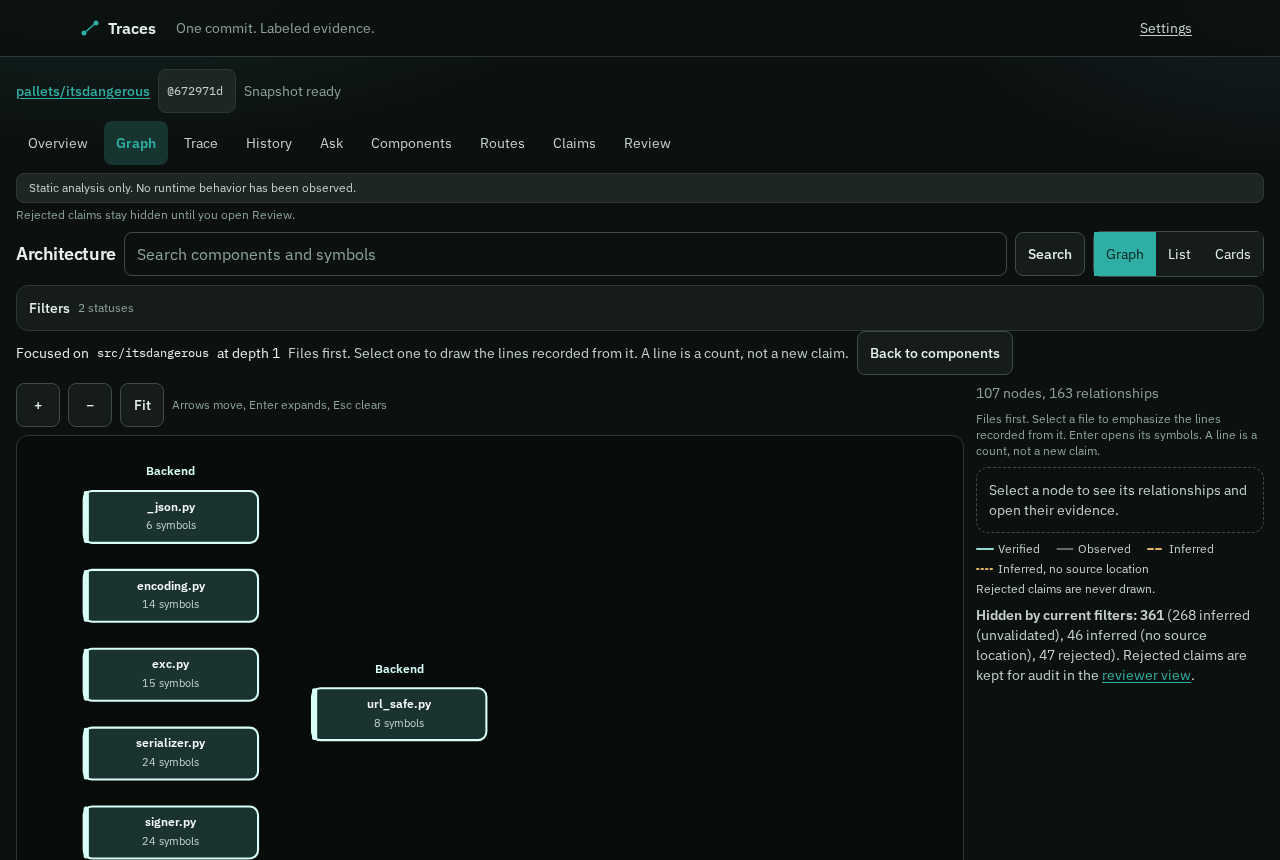
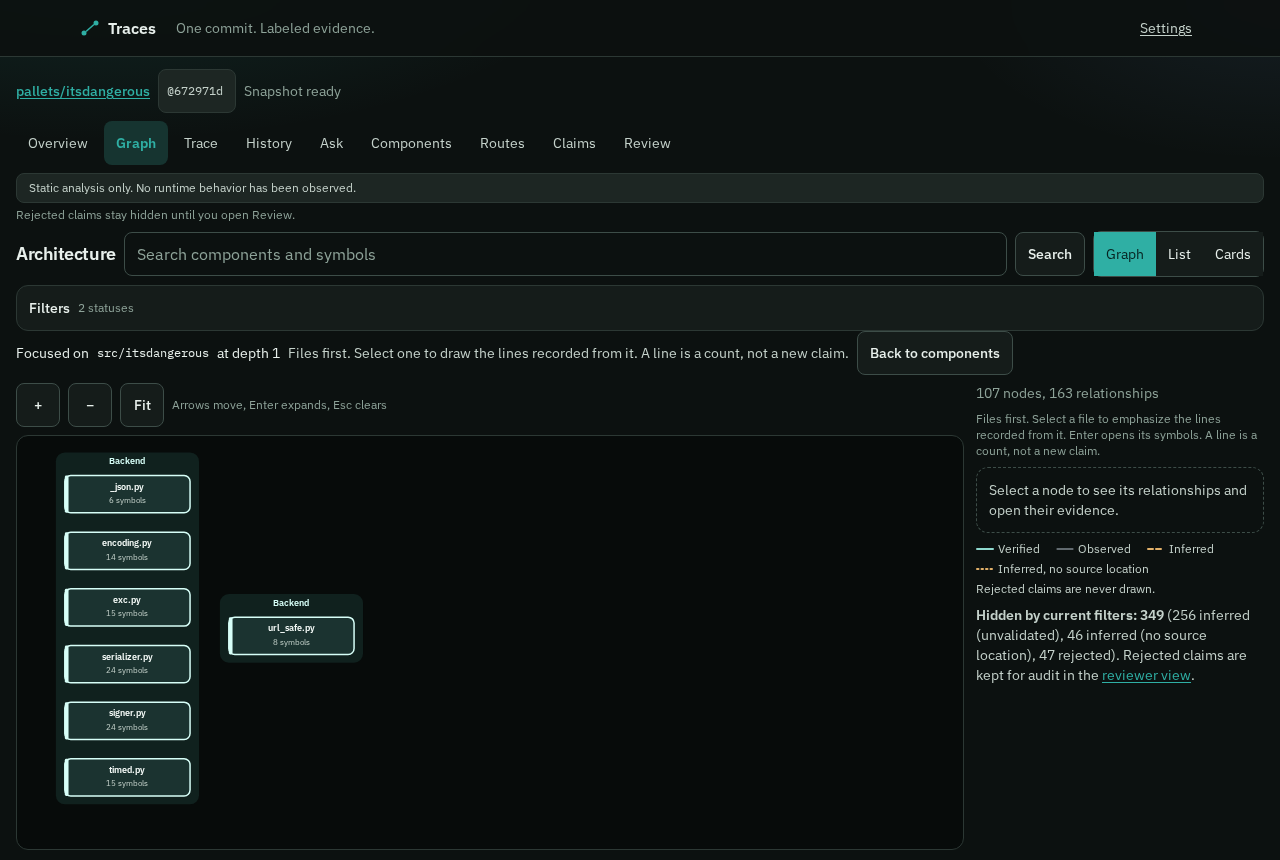
Show neighboring links first and keep the map on the first screen.
Longer recorded links stay off other columns until a component is selected.
The strongest counts sit beside the map. The diagram scales into the space
that is actually visible.

Changed region(s): [[0.0312, 0.514, 0.4062, 1.0]]

diff --git a/web/src/features/graph/GraphCanvas.tsx b/web/src/features/graph/GraphCanvas.tsx
@@ -150,13 +150,32 @@ export function GraphCanvas({ elements, layout, selected, onSelect, onExpand, on
     return ids;
   }, [edges, selected]);
 
+  const [linkScope, setLinkScope] = useState<"near" | "all">("near");
+  const multiLayer = useMemo(() => new Set(nodes.map((n) => n.data.layer).filter(Boolean)).size > 1, [nodes]);
+  const neighboring = useCallback(
+    (e: { data: ElementData }) => {
+      const a = pos[e.data.source!];
+      const b = pos[e.data.target!];
+      if (!a || !b) return false;
+      return Math.abs(a.x - b.x) <= 280;
+    },
+    [pos],
+  );
+  const holdLong = layout === "map" && multiLayer && linkScope === "near";
+  const visibleEdges = useMemo(() => {
+    if (!holdLong) return edges;
+    return edges.filter((e) => neighboring(e) || (!!selected && (e.data.source === selected || e.data.target === selected)));
+  }, [edges, holdLong, neighboring, selected]);
+  const longer = useMemo(() => (layout === "map" && multiLayer ? edges.filter((e) => !neighboring(e)).length : 0), [edges, layout, multiLayer, neighboring]);
+
   const userScaled = useRef(false);
   const fit = useCallback(() => {
     const el = stageRef.current;
     if (!el || el.clientWidth < 40) return 1;
-    const availH = el.clientHeight > 80 ? el.clientHeight - 8 : 520;
-    const z = Math.min(1.15, (el.clientWidth - 8) / frame.w, availH / frame.h);
-    return Math.max(0.22, z);
+    const top = el.getBoundingClientRect().top;
+    const visible = Math.max(240, window.innerHeight - Math.max(top, 0) - 12);
+    const z = Math.min(1.15, (el.clientWidth - 8) / frame.w, visible / frame.h);
+    return Math.max(0.42, z);
   }, [frame.w, frame.h]);
 
   useEffect(() => {
@@ -236,7 +255,22 @@ export function GraphCanvas({ elements, layout, selected, onSelect, onExpand, on
           Fit
         </Button>
         <span className="text-xs text-muted">Arrows move, Enter expands, Esc clears</span>
+        {longer > 0 ? (
+          <div role="group" aria-label="Which recorded lines to draw" className="flex gap-1">
+            <button type="button" aria-pressed={linkScope === "near"} onClick={() => setLinkScope("near")} className={`tap rounded-md border px-3 text-sm ${linkScope === "near" ? "border-accent bg-accent text-accent-ink" : "border-line-strong bg-surface"}`}>
+              Neighboring columns
+            </button>
+            <button type="button" aria-pressed={linkScope === "all"} onClick={() => setLinkScope("all")} className={`tap rounded-md border px-3 text-sm ${linkScope === "all" ? "border-accent bg-accent text-accent-ink" : "border-line-strong bg-surface"}`}>
+              All recorded lines
+            </button>
+          </div>
+        ) : null}
       </div>
+      {longer > 0 && linkScope === "near" ? (
+        <p className="mb-2 text-xs text-ink-2">
+          {longer} longer {longer === 1 ? "link is" : "links are"} not drawn across other columns. Select a component to see its own, or choose All recorded lines. A missing line is not proof that nothing connects.
+        </p>
+      ) : null}
       <div
         ref={stageRef}
         tabIndex={0}
@@ -253,12 +287,23 @@ export function GraphCanvas({ elements, layout, selected, onSelect, onExpand, on
               <path d="M 0 1.2 L 8 5 L 0 8.8 z" fill="context-stroke" />
             </marker>
           </defs>
+          {headers.map((h) => {
+            const members = nodes.flatMap((n) => {
+              const p = at(n.data.id);
+              if (!p || n.data.layer !== h.layer || Math.abs(p.x - h.x) > 8) return [];
+              return [p.y];
+            });
+            if (members.length === 0) return null;
+            const top = Math.min(...members) - 56;
+            const height = Math.max(...members) + 36 - top;
+            return <rect key={`band-${h.layer}-${h.x}`} x={h.x - 96} y={top} width={192} height={height} rx="12" fill="#10211e" />;
+          })}
           {headers.map((h) => (
             <text key={`${h.layer}-${h.x}`} x={h.x} y={h.y - 40} textAnchor="middle" fill={layerColor(h.layer)} fontSize="12" fontFamily="IBM Plex Sans, sans-serif" fontWeight={600}>
               {h.layer.charAt(0).toUpperCase() + h.layer.slice(1)}
             </text>
           ))}
-          {edges.map((e) => {
+          {visibleEdges.map((e) => {
             const a = at(e.data.source);
             const b = at(e.data.target);
             if (!a || !b) return null;
@@ -323,6 +368,44 @@ export function GraphCanvas({ elements, layout, selected, onSelect, onExpand, on
       <p className="sr-only" aria-live="polite" data-testid="graph-announce">
         {announce}
       </p>
+    </div>
+  );
+}
+
+function linkRank(label: string) {
+  const n = Number.parseInt(label, 10);
+  return Number.isFinite(n) ? n : 0;
+}
+
+/** The busiest recorded links on this page. Selecting one highlights its source. Counts are not new claims. */
+export function RecordedLinks({
+  rolls,
+  nameOf,
+  onPick,
+}: {
+  rolls: readonly { data: ElementData }[];
+  nameOf: (id: string | undefined) => string;
+  onPick: (id: string) => void;
+}) {
+  const ranked = [...rolls].sort((a, b) => linkRank(b.data.label) - linkRank(a.data.label) || a.data.id.localeCompare(b.data.id)).slice(0, 6);
+  if (ranked.length === 0) {
+    return <p className="rounded-lg border border-dashed border-line-strong p-3 text-sm text-ink-2">No relationship on this page connects two components. That is not proof that nothing connects.</p>;
+  }
+  return (
+    <div className="rounded-lg border border-line bg-surface p-3" aria-label="Strongest recorded links">
+      <h3 className="text-sm font-semibold">Strongest links on this page</h3>
+      <ul className="mt-2 flex flex-col gap-1">
+        {ranked.map((e) => (
+          <li key={e.data.id}>
+            <button type="button" onClick={() => e.data.source && onPick(e.data.source)} className="tap w-full break-words rounded-md border border-line bg-canvas px-2 text-left text-sm">
+              <span className="font-medium">{nameOf(e.data.source)}</span>
+              <span className="text-muted"> {e.data.label} to </span>
+              <span className="font-medium">{nameOf(e.data.target)}</span>
+            </button>
+          </li>
+        ))}
+      </ul>
+      <p className="mt-2 text-xs text-ink-2">A count of recorded relationships, not a new claim. Select a component to read every link that touches it.</p>
     </div>
   );
 }

diff --git a/web/src/features/views/SystemMap.tsx b/web/src/features/views/SystemMap.tsx
@@ -4,7 +4,7 @@ import { Link, useNavigate, useParams } from "react-router-dom";
 import { api, type Component } from "../../api/client";
 import { snapshotBase } from "../../app/nav";
 import { Button } from "../../ui/States";
-import { GraphCanvas } from "../graph/GraphCanvas";
+import { GraphCanvas, RecordedLinks } from "../graph/GraphCanvas";
 import { componentRollup, graphQuery, openingDiagram, readGraphState, type ElementData } from "../graph/graphModel";
 import { CODE_LAYERS, LAYERS, isLayer, layerColor } from "../layers";
 
@@ -50,25 +50,13 @@ export function SystemMap() {
   if (comps.isPending || graph.isPending) return <p className="mb-3 text-sm text-muted">Loading the architecture.</p>;
   if (!nodes.length) return null;
   const selectedNode = shown.find((n) => n.data.id === selected);
-  const rolls = selected && graph.data ? componentRollup(graph.data, components).filter((e) => e.data.source === selected || e.data.target === selected) : [];
-  const layers = LAYERS.filter((l) => shown.some((n) => !n.data.source && n.data.layer === l));
+  const allRolls = graph.data ? componentRollup(graph.data, components) : [];
+  const rolls = selected ? allRolls.filter((e) => e.data.source === selected || e.data.target === selected) : [];
 
   return (
     <section className="mb-4" aria-label="Architecture map">
-      <div className="mb-2 flex flex-wrap items-baseline justify-between gap-2">
-        <h2 className="font-semibold">Architecture</h2>
-        <p className="text-xs text-muted">A line is a count of recorded relationships. The weakest status in the pair sets the line.</p>
-      </div>
       <div className="grid items-start gap-3 lg:grid-cols-[minmax(0,1fr)_17rem]">
         <div className="min-w-0">
-          <ul className="mb-2 flex flex-wrap gap-x-3 gap-y-1 text-xs text-ink-2" aria-label="Layers">
-            {layers.map((l) => (
-              <li key={l} className="inline-flex items-center gap-1 capitalize">
-                <span className="inline-block h-2.5 w-2.5 rounded-sm" style={{ background: layerColor(l) }} aria-hidden="true" />
-                {l}
-              </li>
-            ))}
-          </ul>
           {phoneList ? (
             <div role="group" aria-label="Layer in view" className="mb-2 flex gap-1 overflow-x-auto">
               {layersOnMap.map((l) => (
@@ -137,9 +125,9 @@ export function SystemMap() {
           {graph.data?.truncated ? <p className="mt-2 text-xs text-ink-2">This page of relationships is truncated at {graph.data.limit}. Counts use only that page.</p> : null}
         </div>
         {selectedNode ? (
-          <MapInspector node={selectedNode.data} components={components} rolls={rolls} base={base} onClear={() => setSelected(null)} />
+          <MapInspector node={selectedNode.data} components={components} rolls={rolls} base={base} onClear={() => setSelected(null)} onPick={setSelected} />
         ) : (
-          <p className="rounded-lg border border-dashed border-line-strong p-3 text-sm text-ink-2">Select a component to see what it connects to. Enter opens it on the graph. A missing line is not proof that nothing connects.</p>
+          <RecordedLinks rolls={allRolls} nameOf={(id) => components.find((c) => c.id === id)?.name ?? id ?? ""} onPick={setSelected} />
         )}
       </div>
     </section>
@@ -152,12 +140,14 @@ function MapInspector({
   rolls,
   base,
   onClear,
+  onPick,
 }: {
   node: ElementData;
   components: readonly Component[];
   rolls: { data: ElementData }[];
   base: string;
   onClear: () => void;
+  onPick: (id: string) => void;
 }) {
   const comp = components.find((c) => c.id === node.id);
   return (
@@ -171,11 +161,13 @@ function MapInspector({
         <ul className="mt-2 flex flex-col gap-1 text-sm">
           {rolls.map((e) => {
             const otherId = e.data.source === node.id ? e.data.target : e.data.source;
-            const other = components.find((c) => c.id === otherId)?.name ?? otherId;
+            const other = components.find((c) => c.id === otherId)?.name ?? otherId ?? "";
             const dir = e.data.source === node.id ? "to" : "from";
             return (
               <li key={e.data.id}>
-                <span className="font-medium">{e.data.label}</span> <span className="text-muted">{dir}</span> {other}
+                <button type="button" onClick={() => otherId && onPick(otherId)} className="text-left hover:underline">
+                  <span className="font-medium">{e.data.label}</span> <span className="text-muted">{dir}</span> {other}
+                </button>
               </li>
             );
           })}

diff --git a/web/src/features/graph/GraphPage.tsx b/web/src/features/graph/GraphPage.tsx
@@ -9,7 +9,7 @@ import { HiddenCounts } from "../../ui/HiddenCounts";
 import { Button, Empty, ErrorState, Loading } from "../../ui/States";
 import { LineSample, StatusChip } from "../../ui/StatusChip";
 import { EvidenceDrawer } from "../evidence/EvidenceDrawer";
-import { GraphCanvas } from "./GraphCanvas";
+import { GraphCanvas, RecordedLinks } from "./GraphCanvas";
 import { CODE_LAYERS, isLayer, layerColor } from "../layers";
 import { LAYERS, STATUS_FILTERS, canvasElements, componentRollup, countsFor, drawableEdges, fileRollup, graphQuery, openingDiagram, readGraphState, symbolsInFile, toElements, writeGraphState, type ElementData, type GraphState, type StatusFilter } from "./graphModel";
 
@@ -481,14 +481,6 @@ export default function GraphPage() {
                           </button>
                         </div>
                       ) : null}
-                      <ul className="flex flex-wrap gap-x-3 gap-y-1 text-xs text-ink-2" aria-label="Layers on the map">
-                        {(effectiveLayer ? [effectiveLayer] : coreOn ? layersOnMap.filter((l) => coreLayer(l)) : layersOnMap).map((l) => (
-                          <li key={l} className="inline-flex items-center gap-1 capitalize">
-                            <span className="inline-block h-2.5 w-2.5 rounded-sm" style={{ background: layerColor(l) }} aria-hidden="true" />
-                            {l}
-                          </li>
-                        ))}
-                      </ul>
                       {effectiveLayer ? <p className="text-xs text-ink-2">One layer is open so the names stay readable. Select a component to list lines that leave it.</p> : null}
                       {coreOn ? <p className="text-xs text-ink-2">Code layers are in the frame. All layers adds infra, docs, and tests.</p> : null}
                     </div>
@@ -562,7 +554,7 @@ export default function GraphPage() {
                 {graph.data.truncated ? `, truncated at ${graph.data.limit}` : ""}
               </p>
               {!state.focus ? (
-                <p className="text-xs text-ink-2">Every component in this view is in the frame. A line counts relationships on this page. The weakest status in the pair sets the line. Select a component to read those lines. A missing line is not proof that nothing connects.</p>
+                <p className="text-xs text-ink-2">Lines between neighboring columns are on the map. A line counts relationships on this page. The weakest status in the pair sets the line. Select a component to read every link that touches it, including ones that skip a column. A missing line is not proof that nothing connects.</p>
               ) : (
                 <p className="text-xs text-muted">{useFiles ? "Files first. Select a file to emphasize the lines recorded from it. Enter opens its symbols. A line is a count, not a new claim." : "Select a symbol to label its lines. List shows every relationship."}</p>
               )}
@@ -570,6 +562,15 @@ export default function GraphPage() {
                 <FilePanel node={drawn.find((e) => e.data.id === selected)?.data} onOpen={() => setOpenedFile(selected.slice("file::".length))} onClear={() => choose(null)} />
               ) : selected && (graph.data.nodes.some((n) => n.id === selected) || components.some((c) => c.id === selected)) ? (
                 <SelectionPanel data={graph.data} components={components} selected={selected} state={state} base={snapshotBase(repoId, sha)} onState={setState} onEvidence={openEvidence} onClear={() => choose(null)} />
+              ) : !state.focus ? (
+                <RecordedLinks
+                  rolls={componentRollup(graph.data, components).filter((e) => {
+                    const ids = new Set(pictured.filter((n) => !n.data.source).map((n) => n.data.id));
+                    return !!e.data.source && !!e.data.target && ids.has(e.data.source) && ids.has(e.data.target);
+                  })}
+                  nameOf={(id) => components.find((c) => c.id === id)?.name ?? id ?? ""}
+                  onPick={choose}
+                />
               ) : (
                 <p className="rounded-lg border border-dashed border-line-strong p-3 text-sm text-ink-2">Select a node to see its relationships and open their evidence.</p>
               )}

diff --git a/web/src/features/views/OverviewPage.tsx b/web/src/features/views/OverviewPage.tsx
@@ -3,7 +3,7 @@ import { api } from "../../api/client";
 import { useSnapshot } from "../../api/queries";
 import { snapshotBase } from "../../app/nav";
 import { presentStatus } from "../../status/status";
-import { Card, ErrorState, Loading, PageHeader } from "../../ui/States";
+import { Card, ErrorState, Loading } from "../../ui/States";
 import { StatusChip } from "../../ui/StatusChip";
 import { EndpointView } from "./EndpointView";
 import { OverviewView } from "./OverviewView";
@@ -49,7 +49,9 @@ export function OverviewPage() {
   const base = snapshotBase(repoId, sha);
   return (
     <>
-      <PageHeader title="Overview">The stored architecture. Select a component to see what it connects to.</PageHeader>
+      <header className="mb-2">
+        <h1 className="text-lg font-semibold tracking-tight">Overview</h1>
+      </header>
       <SystemMap />
       <EndpointView
         name="overview"

diff --git a/web/src/styles.css b/web/src/styles.css
@@ -398,8 +398,9 @@
 }
 
 .stage {
-  height: min(68vh, 40rem);
-  min-height: 16rem;
+  height: auto;
+  max-height: min(68vh, 40rem);
+  min-height: 12rem;
   overflow: auto;
 }
 

diff --git a/docs/acceptance/WALKTHROUGH.md b/docs/acceptance/WALKTHROUGH.md
@@ -24,8 +24,8 @@ Desktop shots are 1280×860. Phone shots are 390×844.
 ## What you see
 
 1. **Home.** The URL field, then the repositories already indexed. [Desktop](home-desktop.png) · [Phone](home-phone.png)
-2. **Overview.** The first thing on the page is the architecture, with the inspector beside it. Components sit in columns by stored layer. A column title names the layer. A line is a count of relationships on this page, drawn with the weakest status in that pair. A line that would cross another column runs under the row instead of through the names. It is not a new claim. Select a component to see what it connects to, then open it on the graph, follow a flow, or look at history. On a wide repository the first picture is the code layers (frontend, api, backend, library, data). All layers is one click away. On a phone the map opens one layer at a time, as a list you can tap. Grouping is a stored path rule. [Desktop](overview-desktop.png) · [Phone](overview-phone.png)
-3. **Architecture graph.** The same columns, scaled so the components in this view stay inside the frame. Select one component to dim the rest and read its lines. Enter expands it. On a phone the map opens one layer at a time, as a list. [Desktop](graph-desktop.png) · [Phone](graph-phone.png)
+2. **Overview.** The first thing on the page is the architecture, with the strongest recorded links beside it. Components sit in columns by stored layer. A column title names the layer. A line between neighboring columns is a count of relationships on this page, drawn with the weakest status in that pair. Longer links are not drawn across other columns until you select a component, or choose All recorded lines. They are not new claims. Select a component to see what it connects to, then open it on the graph, follow a flow, or look at history. On a wide repository the first picture is the code layers (frontend, api, backend, library, data). All layers is one click away. On a phone the map opens one layer at a time, as a list you can tap. Grouping is a stored path rule. [Desktop](overview-desktop.png) · [Phone](overview-phone.png)
+3. **Architecture graph.** The same columns, scaled so the components in this view stay inside the frame. Neighboring lines are drawn. Select one component to dim the rest and to draw the longer links that touch it. Enter expands it. On a phone the map opens one layer at a time, as a list. [Desktop](graph-desktop.png) · [Phone](graph-phone.png)
 4. **Expanded relationships.** A component with more than a handful of symbols opens as its files, with the recorded lines between those files. Select a file to emphasize its lines. Those lines are counts, not new claims. Enter opens the symbols in that file. List view still has every relationship. [Desktop](graph-expanded-desktop.png) · [Phone](graph-expanded-phone.png)
 5. **Trace.** On a wide screen the FastAPI template path is one horizontal flow, and the selected step opens underneath it. On a phone the same steps stack. A solid step is verified or observed. A dotted step is an inferred library call. A dashed step is a gap. The selected step is the panel: the items page renders AddItem, a gap stays where no edge reaches `form.handleSubmit`, two library steps stay inferred, the generated client matches `POST /api/v1/items/`, and `create_item` depends on `get_db`. The same symbols have a verified static persistence path (validate, stage, commit, reload). Nothing was executed, and no database was contacted. The rejected CRUD claim is not a step. [Desktop](trace-desktop.png) · [Phone](trace-phone.png)
 6. **Evidence.** The `contains` claim from `Serializer` to `__init__`, with the pinned source lines. [Desktop](evidence-desktop.png) · [Phone](evidence-phone.png)
